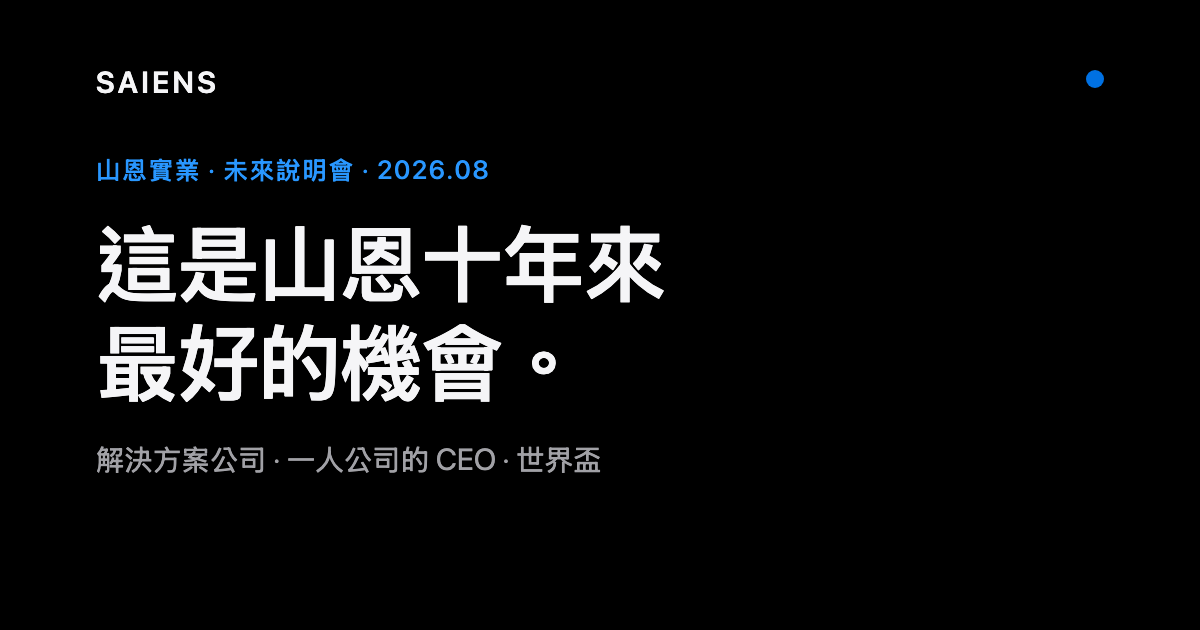
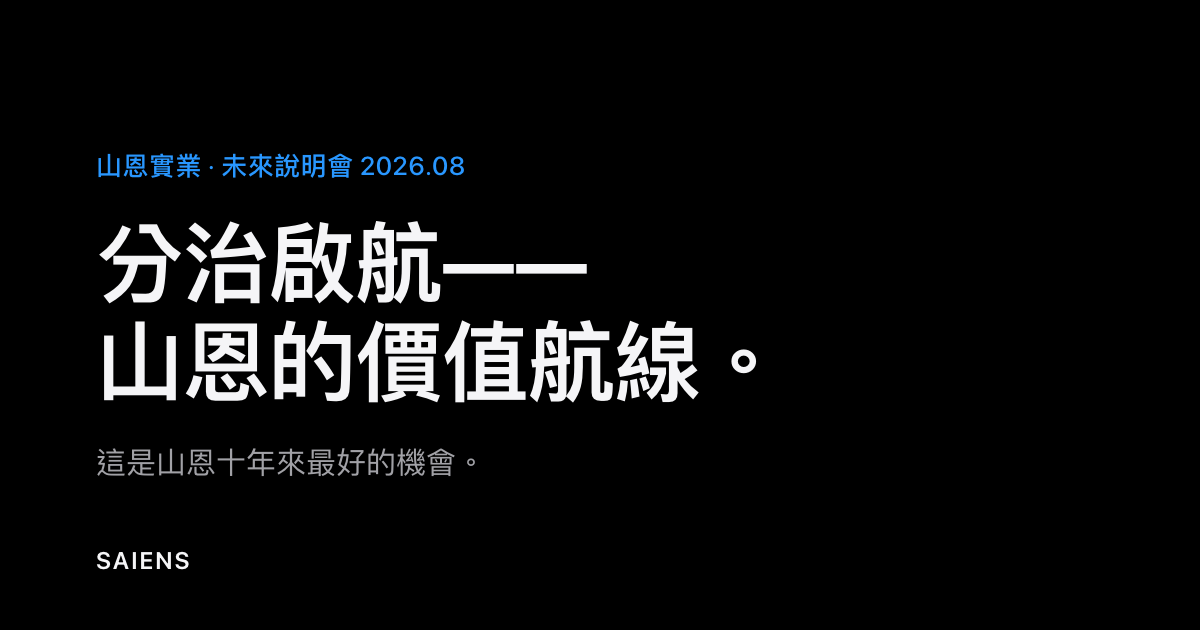
feat: /future 主標題改「分治啟航——山恩的價值航線」＋og.png 同步更新

diff --git a/public/future/index.html b/public/future/index.html
@@ -5,10 +5,10 @@
 <meta name="viewport" content="width=device-width, initial-scale=1">
 <meta name="robots" content="noindex, nofollow">
 <title>山恩・未來說明會｜Bless Every Home &amp; Family</title>
-<meta name="description" content="山恩 2026 未來說明會——我們的下一步：解決方案公司、一人公司的 CEO、世界盃。內部說明資料。">
+<meta name="description" content="分治啟航——山恩的價值航線。解決方案公司、一人公司的 CEO、世界盃。內部說明資料。">
 <meta property="og:type" content="website">
 <meta property="og:title" content="山恩・未來說明會">
-<meta property="og:description" content="這是山恩十年來最好的機會。解決方案公司、一人公司的 CEO、世界盃——2026.08 啟航。">
+<meta property="og:description" content="分治啟航——山恩的價值航線。解決方案公司、一人公司的 CEO、世界盃——2026.08 啟航。">
 <meta property="og:url" content="https://saiens.group/future">
 <meta property="og:image" content="https://saiens.group/future/og.png">
 <meta property="og:image:width" content="1200">
@@ -170,8 +170,8 @@ p.body{font-size:17px;color:var(--text-body);max-width:653px}
 <header class="hero">
   <div>
     <div class="kicker">山恩實業 · 內部說明會</div>
-    <h1>這是山恩十年來<br>最好的機會。</h1>
-    <p class="sub">2026 年 8 月，我們啟航。今天我把航向、船規，和你在這艘船上的位置，一次講清楚。</p>
+    <h1>分治啟航——<br>山恩的價值航線。</h1>
+    <p class="sub">這是山恩十年來最好的機會。今天我把航向、船規，和你在這艘船上的位置，一次講清楚。</p>
   </div>
   <a class="down" href="#act1">往下看</a>
 </header>
